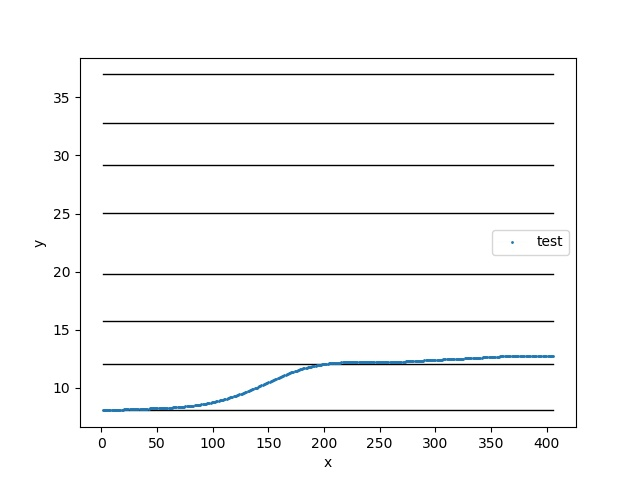
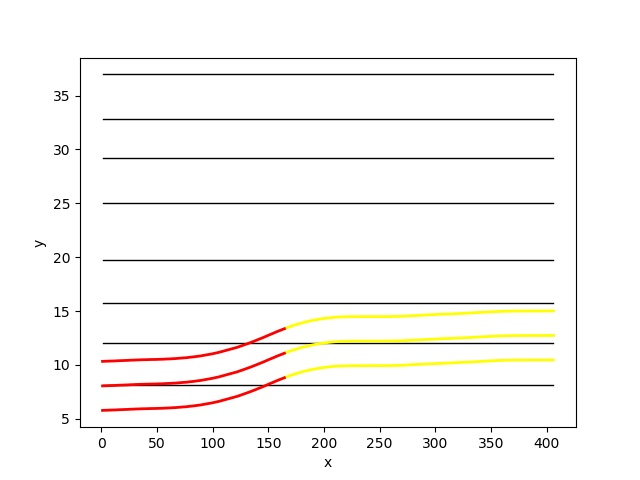
plot car

diff --git a/utils/plot_several_cars.py b/utils/plot_several_cars.py
@@ -137,23 +137,23 @@ def plot_car(_recording_path,_meta_path,_track_path,_file_id,_vehicle_id,_img_pa
     # print(car_width)
     half_width=car_width/2
 
-    upper_y_list_list=[]
-    lower_y_list_list=[]
-    for y_list in y_list_list:
-        upper_y_list=[]
-        lower_y_list=[]
-        for y in y_list:
-            upper_y_list.append(y+half_width)
-            lower_y_list.append(y-half_width)
-        upper_y_list_list.append(upper_y_list)
-        lower_y_list_list.append(lower_y_list)
+    # upper_y_list_list=[]
+    # lower_y_list_list=[]
+    # for y_list in y_list_list:
+    #     upper_y_list=[]
+    #     lower_y_list=[]
+    #     for y in y_list:
+    #         upper_y_list.append(y+half_width)
+    #         lower_y_list.append(y-half_width)
+    #     upper_y_list_list.append(upper_y_list)
+    #     lower_y_list_list.append(lower_y_list)
 
     
 
 
     plot_one_track(x_list_list,y_list_list,lane_id_list)
-    plot_one_track(x_list_list,upper_y_list_list,lane_id_list)
-    plot_one_track(x_list_list,lower_y_list_list,lane_id_list)
+    # plot_one_track(x_list_list,upper_y_list_list,lane_id_list)
+    # plot_one_track(x_list_list,lower_y_list_list,lane_id_list)
 
         
     # plt.plot(x_list,y_list,marker=".",markersize=2)

diff --git a/statistics/several_cars/readme.md b/statistics/several_cars/readme.md
@@ -1,0 +1,1 @@
+tracks of specific numbers of cars
